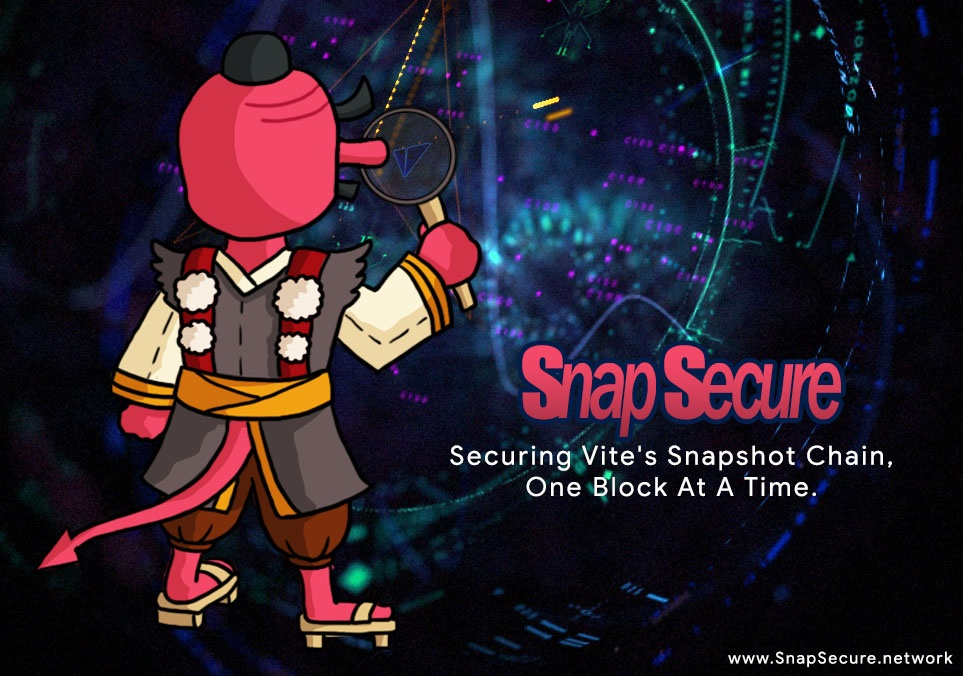
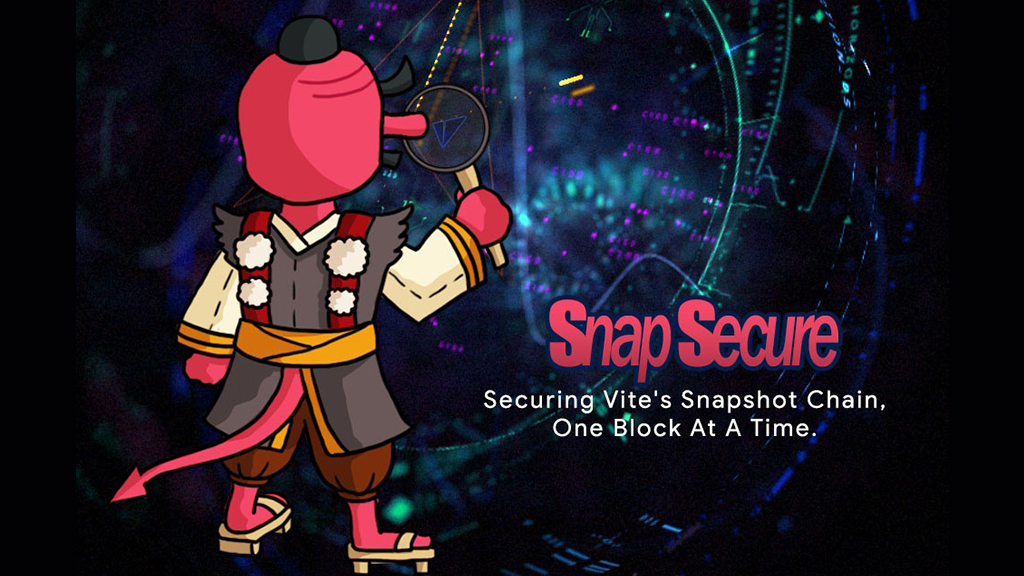
fix twisted pics & delete redundant pics in team folder

diff --git a/pages/nodeDetail.vue b/pages/nodeDetail.vue
@@ -8,7 +8,7 @@
             <h1>{{$t(`elector.nameMap.${key}.name`)}}</h1>
             <h2>{{$t(`elector.nameMap.${key}.description`)}}</h2>
           </div>
-          
+
         </div>
         <div class="columns content is-multiline is-tablet">
           <div class="column is-three-quarters">
@@ -30,7 +30,7 @@
                   </div>
                 </div>
               </div>
-              
+
             </div>
           </div>
           <div class="column">
@@ -63,13 +63,13 @@
             img: require('~/assets/images/superNode/vitelogo.jpeg'),
             banner: require('~/assets/images/superNode/vitecity.jpeg'),
             photo: [{
-              img: require('~/assets/images/superNode/hujinlang.png'),
+              img: require('~/assets/images/superNode/hujinlang.jpg'),
               name: '胡锦浪'
             }, {
-              img: require('~/assets/images/superNode/zengzhifang.png'),
+              img: require('~/assets/images/superNode/zengzhifang.jpg'),
               name: '曾志芳'
             }, {
-              img: require('~/assets/images/superNode/zhonglifeng.png'),
+              img: require('~/assets/images/superNode/zhonglifeng.jpg'),
               name: '钟力峰'
             }]
           },
@@ -81,13 +81,13 @@
             img: require('~/assets/images/superNode/tenzorlogo.png'),
             banner: require('~/assets/images/superNode/tenzor.png'),
             photo: [{
-              img: require('~/assets/images/superNode/kirill.png'),
+              img: require('~/assets/images/superNode/kirill.jpg'),
               name: 'Kirill Medvedev'
             }, {
-              img: require('~/assets/images/superNode/maksim.png'),
+              img: require('~/assets/images/superNode/maksim.jpg'),
               name: 'Maksim Mizerov'
             }, {
-              img: require('~/assets/images/superNode/daniil.png'),
+              img: require('~/assets/images/superNode/daniil.jpg'),
               name: 'Daniil Ogurtsov'
             }]
           },
@@ -102,7 +102,7 @@
               name: 'website',
               links: ['http://snapsecure.network/']
             }],
-            img: require('~/assets/images/superNode/snaplogo.png'),
+            img: require('~/assets/images/superNode/snaplogo.jpg'),
             banner: require('~/assets/images/superNode/snap.jpg'),
             photo: [{
               img: require('~/assets/images/superNode/mathew.jpg'),
@@ -115,15 +115,15 @@
               links: ['mailto:sbp@uixagency.com']
             }],
             img: require('~/assets/images/superNode/uxlogo.png'),
-            banner: require('~/assets/images/superNode/ux.png'),
+            banner: require('~/assets/images/superNode/ux.jpg'),
             photo: [{
               img: require('~/assets/images/superNode/vladimir.jpg'),
               name: 'Vladimir Polishchuk'
             }, {
-              img: require('~/assets/images/superNode/serhiy.png'),
+              img: require('~/assets/images/superNode/serhiy.jpg'),
               name: 'Serhiy Polishchuk'
             }, {
-              img: require('~/assets/images/superNode/julia.png'),
+              img: require('~/assets/images/superNode/julia.jpg'),
               name: 'Julia Novak'
             }]
           },
@@ -132,10 +132,10 @@
               name: 'email',
               links: ['mailto:foundation@loopring.org']
             }],
-            img: require('~/assets/images/superNode/loopringlogo.png'),
-            banner: require('~/assets/images/superNode/loopring.png'),
+            img: require('~/assets/images/superNode/loopringlogo.jpg'),
+            banner: require('~/assets/images/superNode/loopring.jpg'),
             photo: [{
-              img: require('~/assets/images/superNode/JayZhou.png'),
+              img: require('~/assets/images/superNode/JayZhou.jpg'),
               name: 'Kongliang, Zhong'
             }]
           }
@@ -197,7 +197,7 @@
           margin-bottom: 10px;
         }
         .content {
-          
+
           font-size: 14px;
           color: #919AA3;
           text-align: justify;
@@ -214,6 +214,6 @@
     .column-right {
       // min-width: 320px;
     }
-   
+
   }
 </style>

diff --git a/components/Elector.vue b/components/Elector.vue
@@ -37,11 +37,11 @@
             key: 'snap'
           },
           {
-            img: require('~/assets/images/superNode/ux.png'),
+            img: require('~/assets/images/superNode/ux.jpg'),
             key: 'ux'
           },
           {
-            img: require('~/assets/images/superNode/loopring.png'),
+            img: require('~/assets/images/superNode/loopring.jpg'),
             key: 'loopring'
           }
         ]
@@ -57,7 +57,7 @@
   section {
     padding-top: 60px;
     .container {
-     
+
       & > h2 {
         font-size: 44px;
         color: #171C34;
